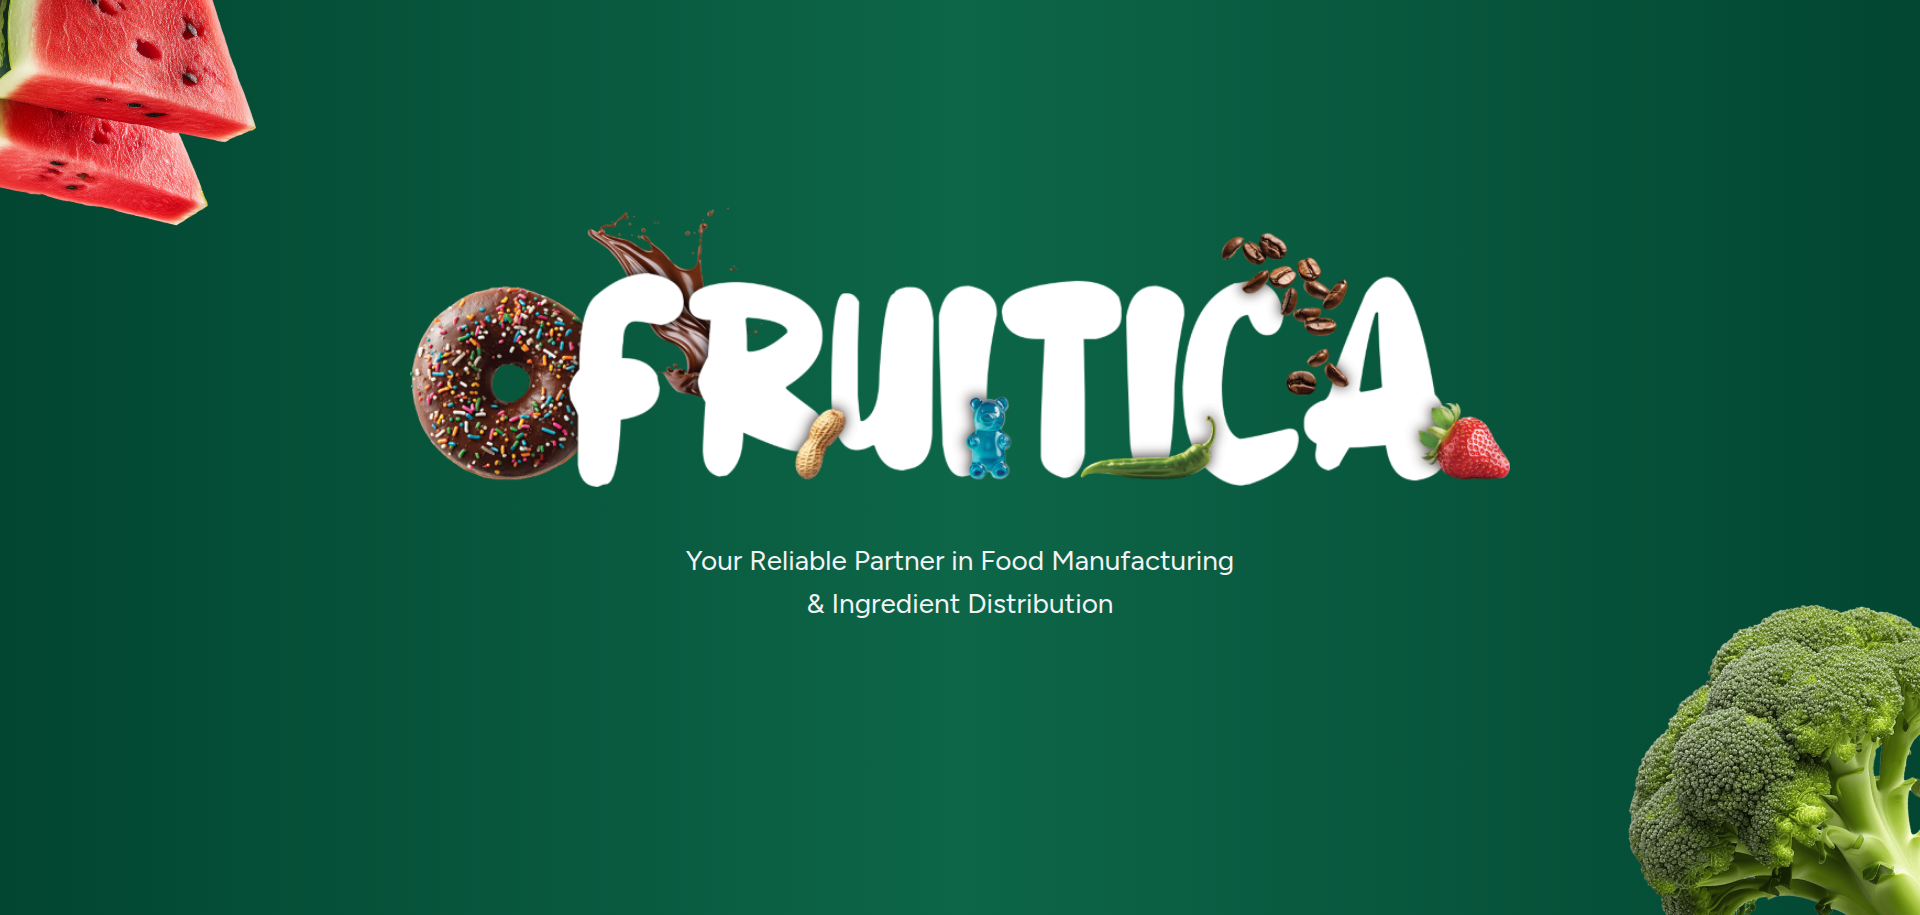
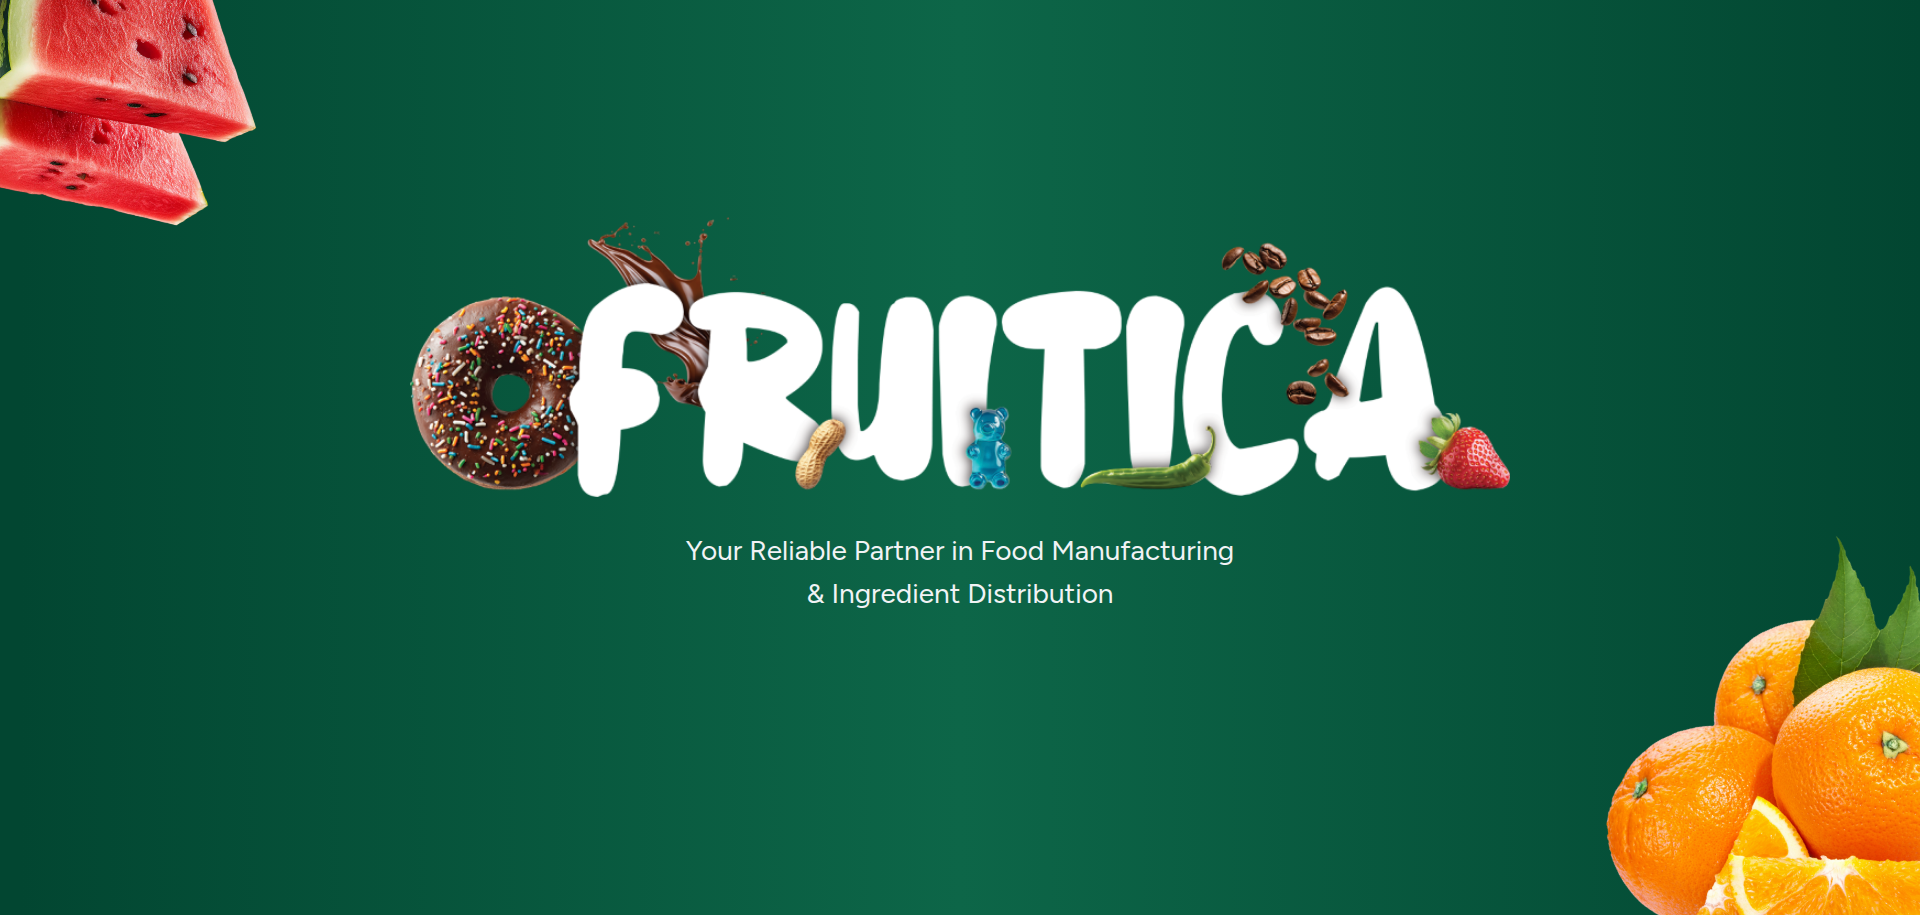
Design and content changes

Changed region(s): [[0.2188, 0.2448, 0.8125, 0.5508], [0.8125, 0.612, 1.0, 1.0], [0.3438, 0.5814, 0.6562, 0.6732]]

diff --git a/src/Pages/Home/Sections/HeroSection.css b/src/Pages/Home/Sections/HeroSection.css
@@ -4,7 +4,7 @@
 	right: -210px;
 	width: 600px;
 	height: 600px;
-	background-image: url("../../../Assets/Images/broccoli.png");
+	background-image: url("../../../Assets/Images/oranges.png");
 	background-size: 100%;
 	transform: rotate(-30deg);
 }
@@ -23,8 +23,8 @@
 @media (max-width: 992px) {
 	.bg-item1 {
 		position: absolute;
-		bottom: -150px;
-		right: -185px;
+		bottom: -130px;
+		right: -215px;
 		width: 400px;
 		height: 400px;
 	}

diff --git a/src/Components/Footer/Footer.tsx b/src/Components/Footer/Footer.tsx
@@ -43,7 +43,6 @@ function Footer() {
 						<Badge color="teal.8">{t("key_fact4")}</Badge>
 						<Badge color="teal.8">{t("key_fact5")}</Badge>
 						<Badge color="teal.8">{t("key_fact6")}</Badge>
-						<Badge color="teal.8">{t("key_fact7")}</Badge>
 					</Group>
 				</Stack>
 				<Stack w={isMobile ? "100%" : 600} ref={setTargetRef("contact")} gap="xl">
